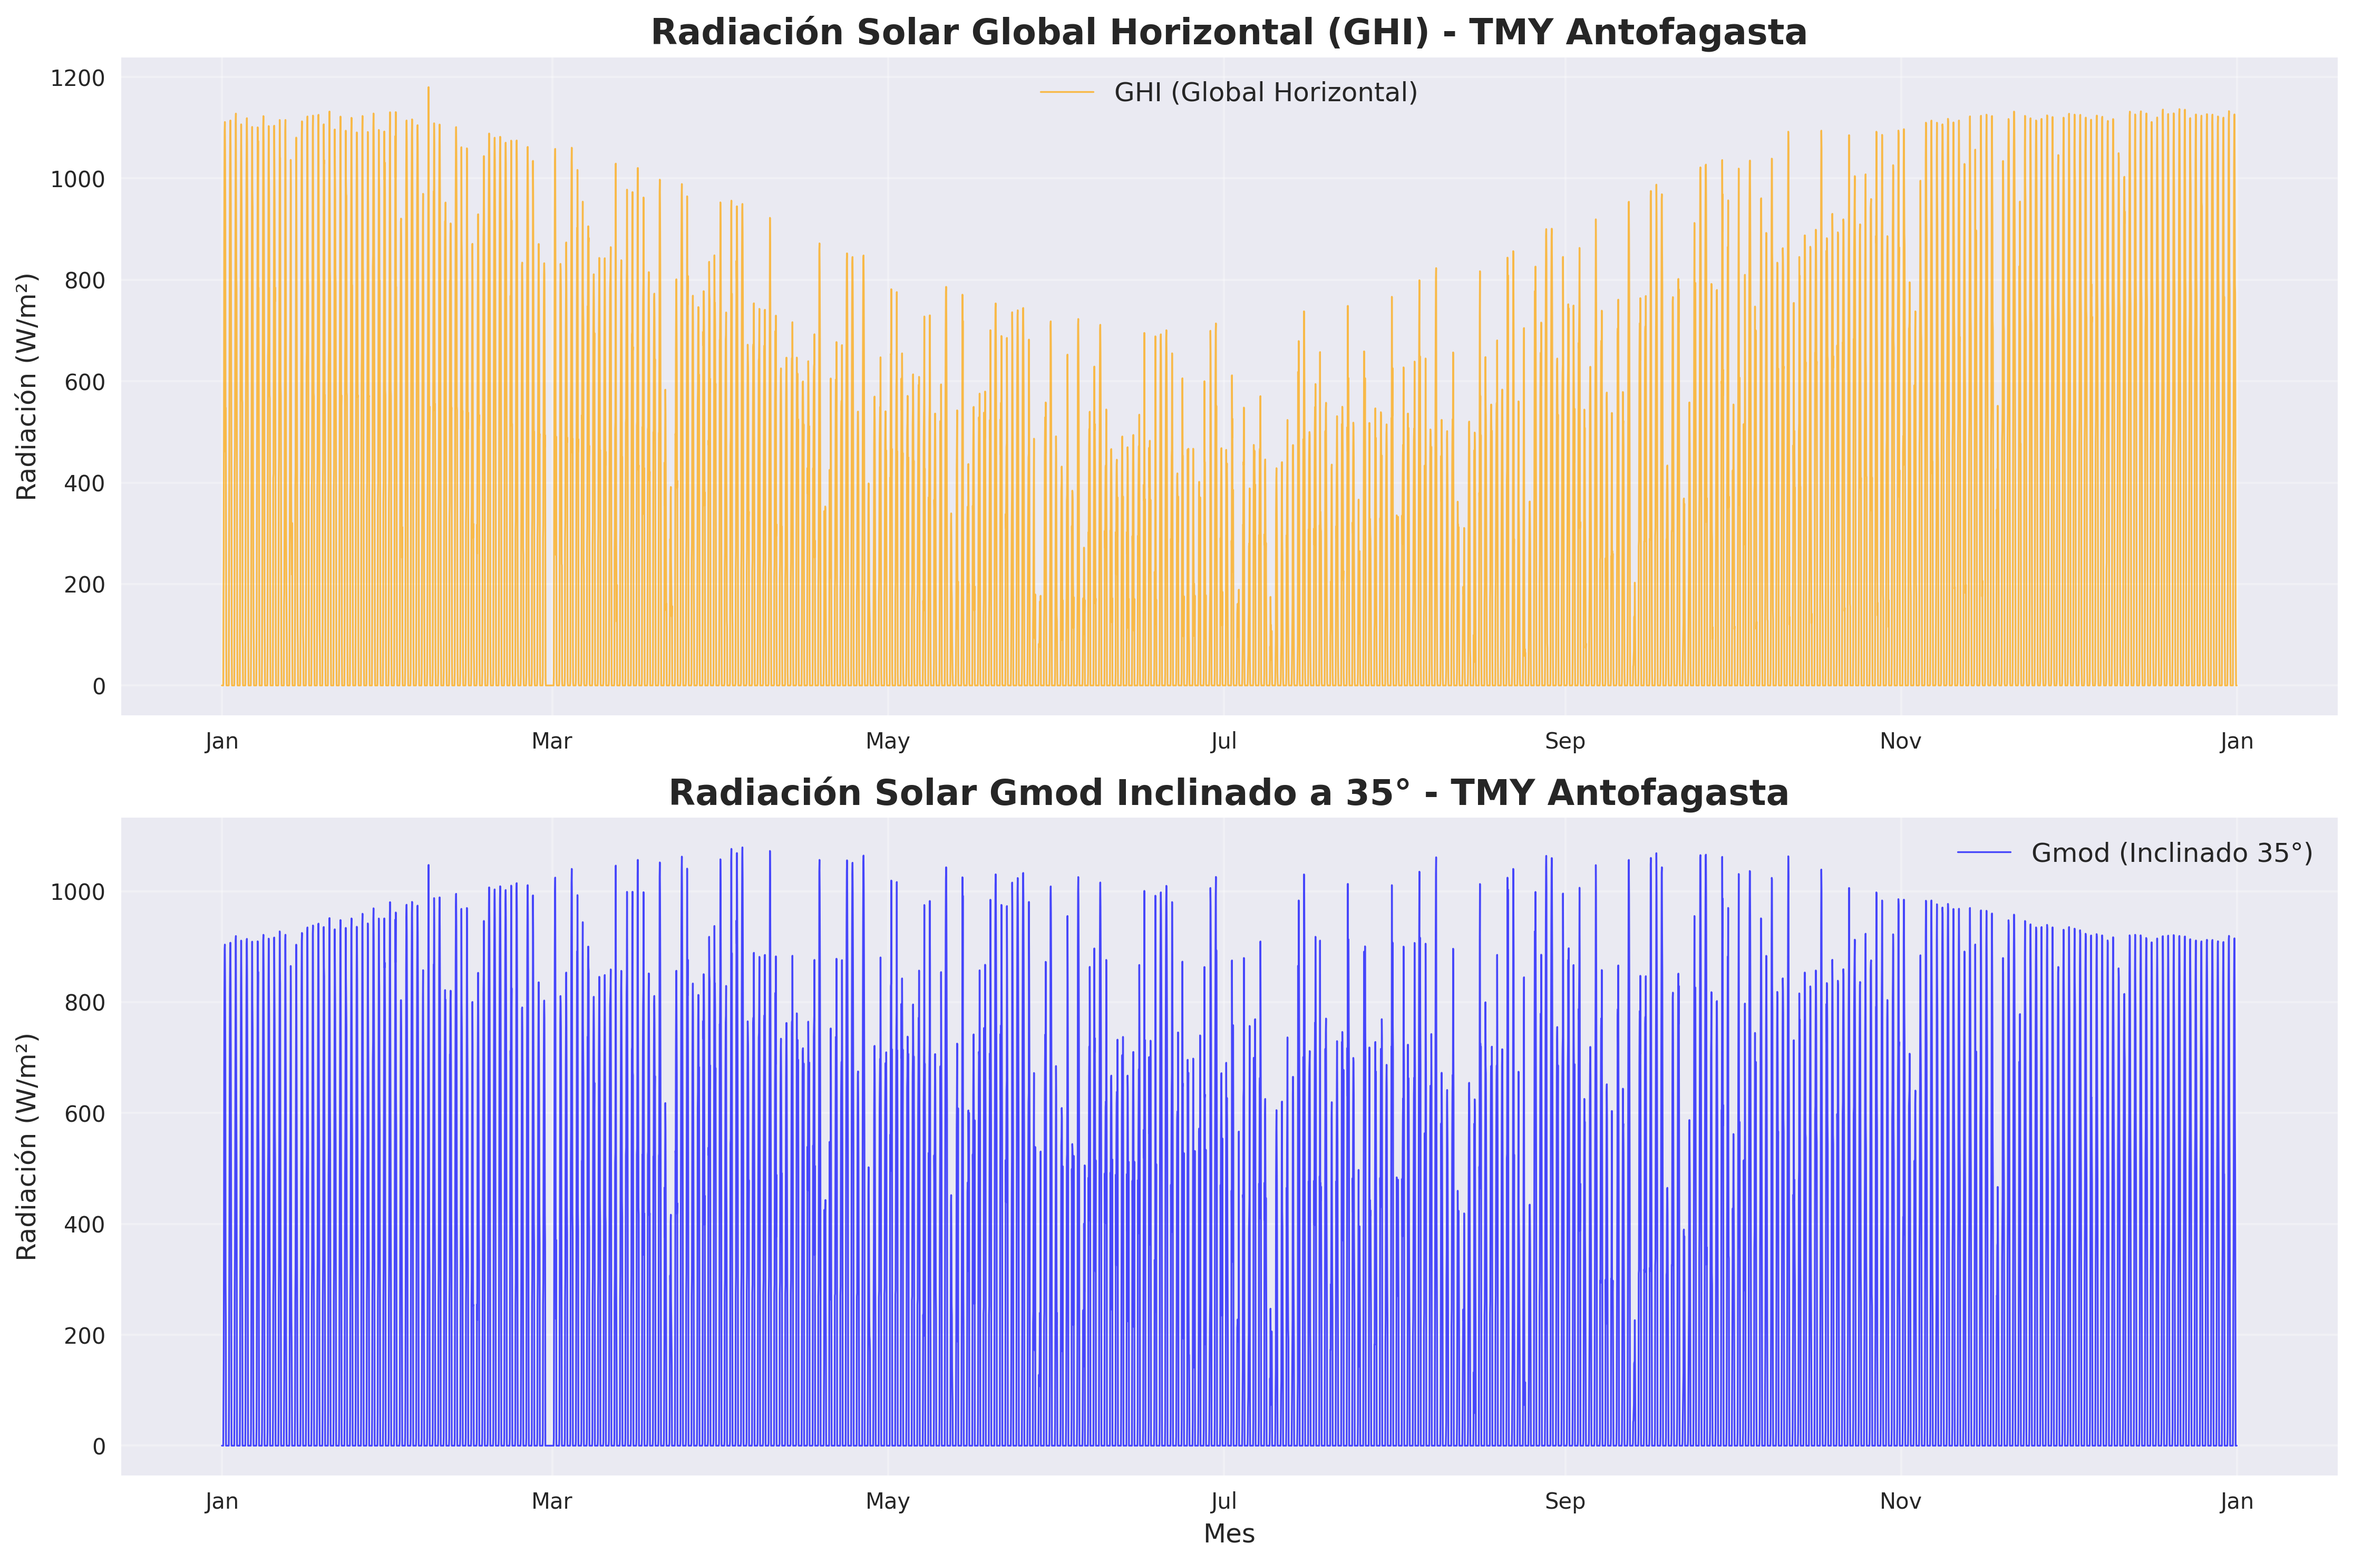
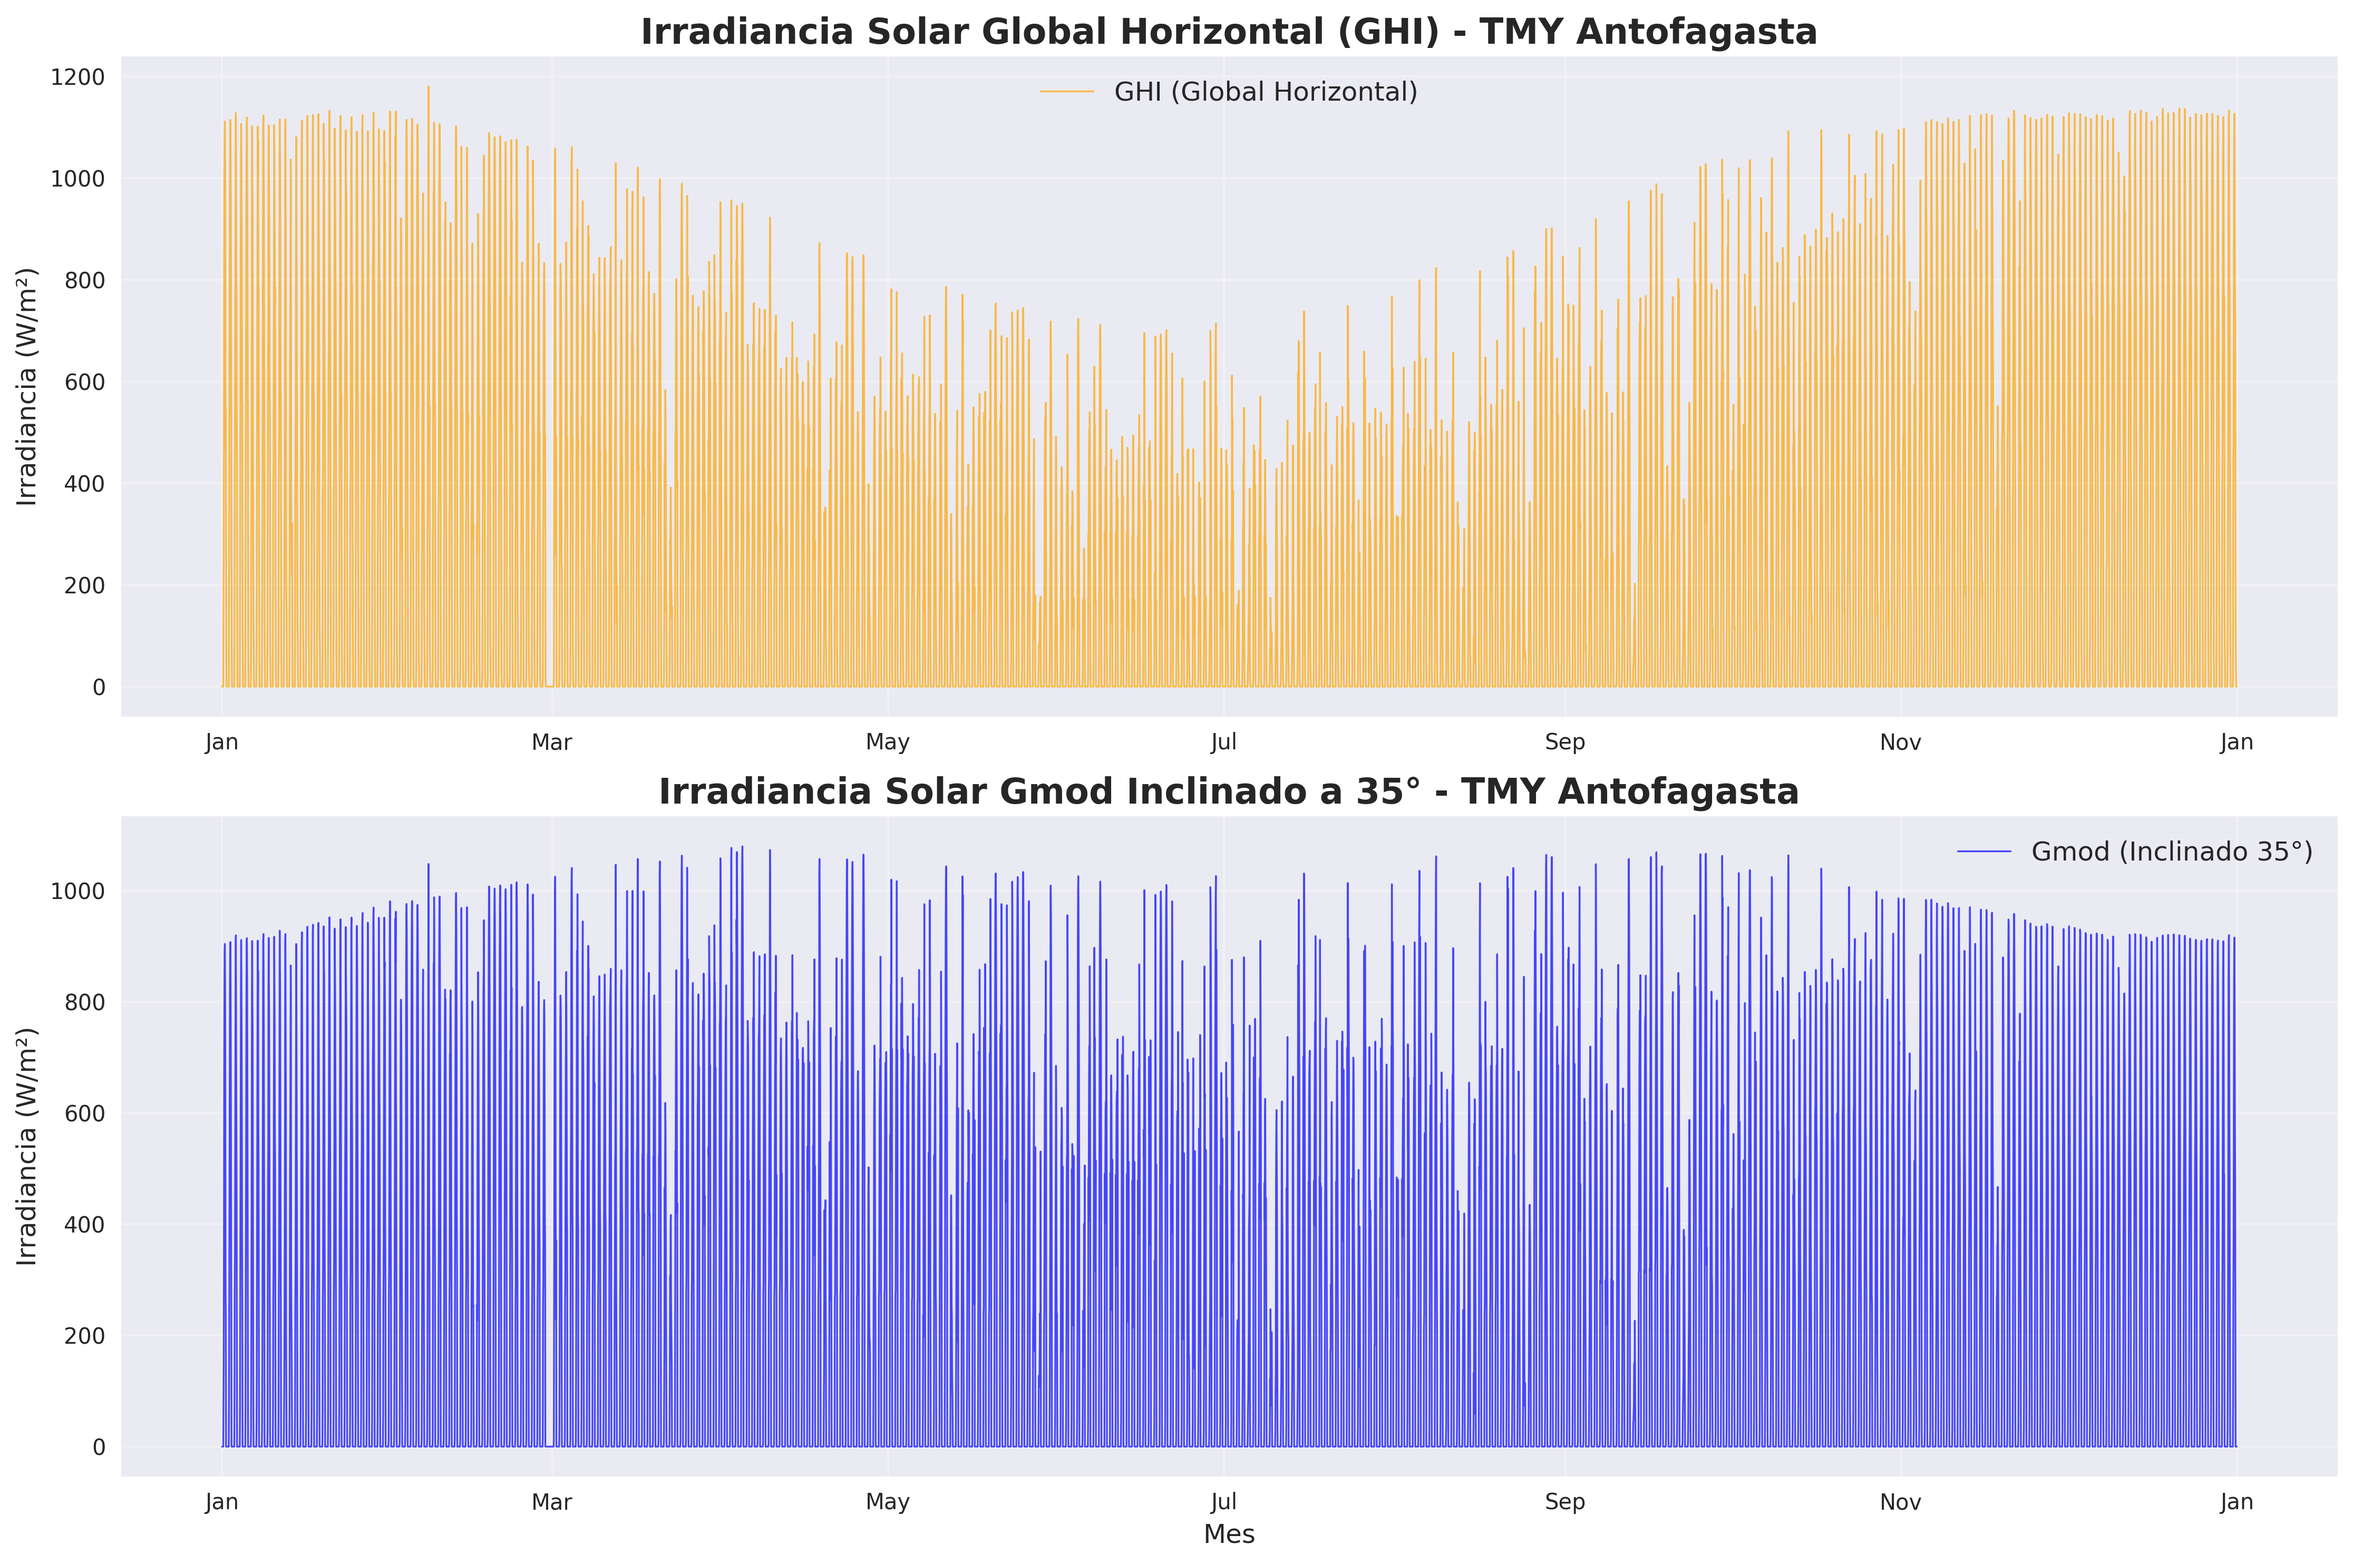
Mejora y corrección de graficos de irradiancia (recurso solar)

diff --git a/perfil_demanda/GHI_Gmod.py b/perfil_demanda/GHI_Gmod.py
@@ -189,28 +189,28 @@ class ProcesadorTMY:
         return self.datos
     
     def graficar_radiacion_anual(self, guardar_grafico=True):
-        """Graficar radiación GHI y Gmod para un año completo"""
+        """Graficar Irradiancia GHI y Gmod para un año completo"""
         print("\n📊 GENERANDO GRÁFICO ANUAL...")
         
         # Crear figura con subplots
         fig, (ax1, ax2) = plt.subplots(2, 1, figsize=(15, 10))
         
-        # Gráfico 1: Radiación GHI (Global Horizontal)
+        # Gráfico 1: Irradiancia GHI (Global Horizontal)
         ax1.plot(self.datos['fecha_tmy'], self.datos['ghi'], 
                 color='orange', linewidth=0.8, alpha=0.7, label='GHI (Global Horizontal)')
-        ax1.set_title('Radiación Solar Global Horizontal (GHI) - TMY Antofagasta', 
+        ax1.set_title('Irradiancia Solar Global Horizontal (GHI) - TMY Antofagasta', 
                      fontsize=16, fontweight='bold')
-        ax1.set_ylabel('Radiación (W/m²)', fontsize=12)
+        ax1.set_ylabel('Irradiancia (W/m²)', fontsize=12)
         ax1.legend(fontsize=12)
         ax1.grid(True, alpha=0.3)
         ax1.xaxis.set_major_formatter(mdates.DateFormatter('%b'))
         
-        # Gráfico 2: Radiación Gmod inclinado a 35°
+        # Gráfico 2: Irradiancia Gmod inclinado a 35°
         ax2.plot(self.datos['fecha_tmy'], self.datos['gmod_35'], 
                 color='blue', linewidth=0.8, alpha=0.7, label='Gmod (Inclinado 35°)')
-        ax2.set_title('Radiación Solar Gmod Inclinado a 35° - TMY Antofagasta', 
+        ax2.set_title('Irradiancia Solar Gmod Inclinado a 35° - TMY Antofagasta', 
                      fontsize=16, fontweight='bold')
-        ax2.set_ylabel('Radiación (W/m²)', fontsize=12)
+        ax2.set_ylabel('Irradiancia (W/m²)', fontsize=12)
         ax2.set_xlabel('Mes', fontsize=12)
         ax2.legend(fontsize=12)
         ax2.grid(True, alpha=0.3)
@@ -228,7 +228,7 @@ class ProcesadorTMY:
         return fig
     
     def graficar_comparacion_mensual(self, guardar_grafico=True):
-        """Graficar comparación mensual de radiación GHI vs GLB"""
+        """Graficar comparación mensual de Irradiancia GHI vs GLB"""
         print("\n📊 GENERANDO GRÁFICO COMPARATIVO MENSUAL...")
         
         # Calcular estadísticas mensuales
@@ -255,7 +255,7 @@ class ProcesadorTMY:
         return datos_mensuales
     
     def graficar_solsticios(self, guardar_grafico=True):
-        """Graficar radiación GHI y GLB para los solsticios (20 junio y 21 diciembre)"""
+        """Graficar Irradiancia GHI y GLB para los solsticios (20 junio y 21 diciembre)"""
         print("\n📊 GENERANDO GRÁFICO DE SOLSTICIOS...")
         
         # Filtrar datos para 21 de junio y 21 de diciembre
@@ -268,7 +268,7 @@ class ProcesadorTMY:
         ].copy()
         
         # Crear figura con subplots
-        fig, (ax1, ax2) = plt.subplots(2, 1, figsize=(15, 12))
+        fig, (ax1, ax2) = plt.subplots(2, 1, figsize=(12, 12))
         
         # Gráfico 1: Solsticio de Verano (20 de Junio)
         horas_verano = solsticio_verano['hora']
@@ -293,24 +293,24 @@ class ProcesadorTMY:
                     xy=(ghi_max_hora_verano, ghi_max_valor_verano),
                     xytext=(ghi_max_hora_verano - 2, ghi_max_valor_verano - 200),
                     arrowprops=dict(arrowstyle='->', color='orange', lw=2),
-                    fontsize=11, color='orange', fontweight='bold',
+                    fontsize=14, color='orange', fontweight='bold',
                     bbox=dict(boxstyle='round,pad=0.3', facecolor='white', alpha=0.8))
         
         ax1.annotate(f'Gmod máx\n{gmod_max_valor_verano:.0f} W/m²', 
                     xy=(gmod_max_hora_verano, gmod_max_valor_verano),
                     xytext=(gmod_max_hora_verano - 2, gmod_max_valor_verano - 200),
                     arrowprops=dict(arrowstyle='->', color='blue', lw=2),
-                    fontsize=11, color='blue', fontweight='bold',
+                    fontsize=14, color='blue', fontweight='bold',
                     bbox=dict(boxstyle='round,pad=0.3', facecolor='white', alpha=0.8))
         
         ax1.set_title('Día de Invierno - 20 de Junio', 
-                     fontsize=17, fontweight='bold')
-        ax1.set_ylabel('Radiación (W/m²)', fontsize=13)
-        ax1.set_xlabel('Hora del día', fontsize=13)
+                     fontsize=20, fontweight='bold')
+        ax1.set_ylabel('Irradiancia (W/m²)', fontsize=16)
+        ax1.set_xlabel('Hora del día', fontsize=16)
         ax1.set_xticks(range(0, 24, 2))
-        ax1.tick_params(axis='both', which='major', labelsize=12)
+        ax1.tick_params(axis='both', which='major', labelsize=14)
         ax1.grid(True, alpha=0.3)
-        ax1.legend(fontsize=12)
+        ax1.legend(fontsize=14)
         ax1.set_xlim(0, 23)
         
         # Agregar estadísticas del día
@@ -321,7 +321,7 @@ class ProcesadorTMY:
         gmod_energia_verano = solsticio_verano['gmod_35'].sum() / 1000  # kWh/m²
         
         ax1.text(0.02, 0.98, f'GHI máx: {ghi_max_verano:.0f} W/m²\nGmod máx: {gmod_max_verano:.0f} W/m²\nEnergía GHI: {ghi_energia_verano:.2f} kWh/m²\nEnergía Gmod: {gmod_energia_verano:.2f} kWh/m²', 
-                transform=ax1.transAxes, verticalalignment='top', fontsize=11,
+                transform=ax1.transAxes, verticalalignment='top', fontsize=14,
                 bbox=dict(boxstyle='round', facecolor='white', alpha=0.8))
         
         # Gráfico 2: Solsticio de Invierno (21 de Diciembre)
@@ -347,24 +347,24 @@ class ProcesadorTMY:
                     xy=(ghi_max_hora_invierno, ghi_max_valor_invierno),
                     xytext=(ghi_max_hora_invierno - 3, ghi_max_valor_invierno - 300),
                     arrowprops=dict(arrowstyle='->', color='orange', lw=2),
-                    fontsize=11, color='orange', fontweight='bold',
+                    fontsize=14, color='orange', fontweight='bold',
                     bbox=dict(boxstyle='round,pad=0.3', facecolor='white', alpha=0.8))
         
         ax2.annotate(f'Gmod máx\n{gmod_max_valor_invierno:.0f} W/m²', 
                     xy=(gmod_max_hora_invierno, gmod_max_valor_invierno),
                     xytext=(gmod_max_hora_invierno + 3, gmod_max_valor_invierno - 300),
                     arrowprops=dict(arrowstyle='->', color='blue', lw=2),
-                    fontsize=11, color='blue', fontweight='bold',
+                    fontsize=14, color='blue', fontweight='bold',
                     bbox=dict(boxstyle='round,pad=0.3', facecolor='white', alpha=0.8))
         
         ax2.set_title('Día de Verano - 21 de Diciembre', 
-                     fontsize=17, fontweight='bold')
-        ax2.set_ylabel('Radiación (W/m²)', fontsize=13)
-        ax2.set_xlabel('Hora del día', fontsize=13)
+                     fontsize=20, fontweight='bold')
+        ax2.set_ylabel('Irradiancia (W/m²)', fontsize=16)
+        ax2.set_xlabel('Hora del día', fontsize=16)
         ax2.set_xticks(range(0, 24, 2))
-        ax2.tick_params(axis='both', which='major', labelsize=12)
+        ax2.tick_params(axis='both', which='major', labelsize=14)
         ax2.grid(True, alpha=0.3)
-        ax2.legend(fontsize=12)
+        ax2.legend(fontsize=14)
         ax2.set_xlim(0, 23)
         
         # Agregar estadísticas del día
@@ -375,14 +375,14 @@ class ProcesadorTMY:
         gmod_energia_invierno = solsticio_invierno['gmod_35'].sum() / 1000  # kWh/m²
         
         ax2.text(0.02, 0.98, f'GHI máx: {ghi_max_invierno:.0f} W/m²\nGmod máx: {gmod_max_invierno:.0f} W/m²\nEnergía GHI: {ghi_energia_invierno:.2f} kWh/m²\nEnergía Gmod: {gmod_energia_invierno:.2f} kWh/m²', 
-                transform=ax2.transAxes, verticalalignment='top', fontsize=11,
+                transform=ax2.transAxes, verticalalignment='top', fontsize=14,
                 bbox=dict(boxstyle='round', facecolor='white', alpha=0.8))
         
         plt.tight_layout()
         
         if guardar_grafico:
             nombre_archivo = 'OFFGRID/results/solsticios_tmy_antofagasta.png'
-            plt.savefig(nombre_archivo, dpi=300, bbox_inches='tight')
+            plt.savefig(nombre_archivo, dpi=600, bbox_inches='tight')
             print(f"💾 Gráfico guardado como: {nombre_archivo}")
         
         plt.show()
@@ -456,7 +456,7 @@ class ProcesadorTMY:
         # Generar reporte
         reporte = f"""
         ========================================
-        REPORTE DE RADIACIÓN SOLAR - TMY ANTOFAGASTA
+        REPORTE DE Irradiancia SOLAR - TMY ANTOFAGASTA
         ========================================
         
         PERÍODO: {self.datos['fecha_tmy'].min().strftime('%Y-%m-%d')} a {self.datos['fecha_tmy'].max().strftime('%Y-%m-%d')}
@@ -733,11 +733,11 @@ class ProcesadorTMY:
         """
         print("\n🌡☀ CALCULANDO TEMPERATURAS DURANTE HORAS DE LUZ...")
         
-        # Filtrar solo los datos con radiación solar (horas de luz)
+        # Filtrar solo los datos con Irradiancia solar (horas de luz)
         datos_luz = self.datos[self.datos['ghi'] > 0].copy()
         
         if len(datos_luz) == 0:
-            print("⚠  No se encontraron datos con radiación solar")
+            print("⚠  No se encontraron datos con Irradiancia solar")
             return None
         
         # Calcular estadísticas de temperatura durante horas de luz
@@ -763,12 +763,12 @@ class ProcesadorTMY:
         print(f"🌡  TEMPERATURA MÁXIMA DURANTE HORAS DE LUZ:")
         print(f"   Valor: {temp_max_luz:.1f} °C")
         print(f"   Fecha: {fecha_temp_max.strftime('%d/%m/%Y a las %H:%M')}")
-        print(f"   Radiación GHI en ese momento: {ghi_temp_max:.1f} W/m²")
+        print(f"   Irradiancia GHI en ese momento: {ghi_temp_max:.1f} W/m²")
         print()
         print(f"🌡  TEMPERATURA MÍNIMA DURANTE HORAS DE LUZ:")
         print(f"   Valor: {temp_min_luz:.1f} °C")
         print(f"   Fecha: {fecha_temp_min.strftime('%d/%m/%Y a las %H:%M')}")
-        print(f"   Radiación GHI en ese momento: {ghi_temp_min:.1f} W/m²")
+        print(f"   Irradiancia GHI en ese momento: {ghi_temp_min:.1f} W/m²")
         print()
         print(f"📈 ESTADÍSTICAS ADICIONALES:")
         print(f"   Temperatura promedio durante horas de luz: {temp_prom_luz:.1f} °C")
@@ -899,14 +899,14 @@ class ProcesadorTMY:
 
     def calcular_radiacion_teorica_cielo_despejado(self, fechas, latitud=-23.14):
         """
-        Calcula la radiación solar teórica para cielo despejado usando el modelo de Iqbal
+        Calcula la Irradiancia solar teórica para cielo despejado usando el modelo de Iqbal
         
         Args:
             fechas: Array de fechas datetime
             latitud: Latitud en grados decimales (negativo para sur)
         
         Returns:
-            Array con radiación teórica en W/m²
+            Array con Irradiancia teórica en W/m²
         """
         # Convertir fechas a array de días del año
         if isinstance(fechas[0], np.datetime64):
@@ -942,14 +942,14 @@ class ProcesadorTMY:
         # Evitar valores negativos (sol bajo el horizonte)
         cos_zenital = np.maximum(cos_zenital, 0)
         
-        # Calcular radiación extraterrestre
+        # Calcular Irradiancia extraterrestre
         radiacion_extraterrestre = I0 * correcion_distancia * cos_zenital
         
         # Modelo simple de cielo despejado (Iqbal simplificado)
         # Coeficientes típicos para atmósfera estándar
         transmitancia_atmosferica = 0.75  # Valor típico para cielo despejado
         
-        # Calcular radiación teórica de cielo despejado
+        # Calcular Irradiancia teórica de cielo despejado
         ghi_teorico = radiacion_extraterrestre * transmitancia_atmosferica
         
         # Ajustar por masa de aire (aproximación simple)
@@ -974,7 +974,7 @@ class ProcesadorTMY:
         """
         print("\n☀🌤 CALCULANDO ÍNDICE DE CLARIDAD...")
         
-        # Calcular radiación teórica de cielo despejado
+        # Calcular Irradiancia teórica de cielo despejado
         ghi_teorico = self.calcular_radiacion_teorica_cielo_despejado(
             self.datos['Fecha/Hora'].values, 
             latitud=-23.14
